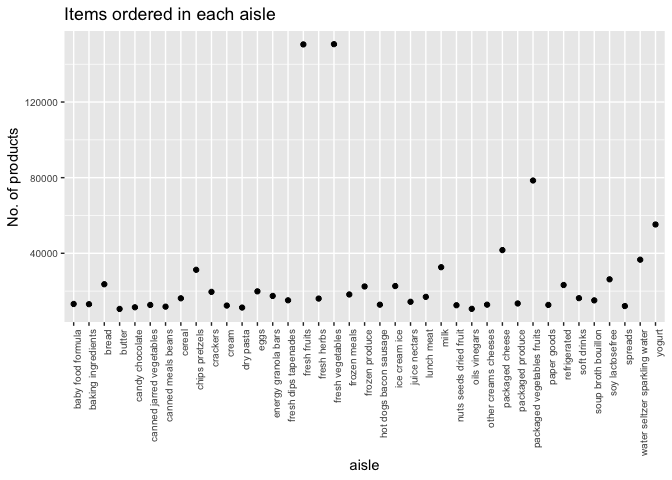
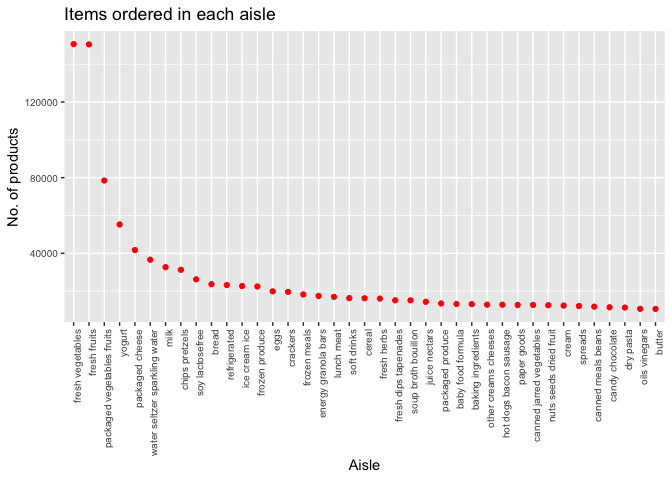
Changing color on graph

diff --git a/p8105_hw3_unp2000.md b/p8105_hw3_unp2000.md
@@ -52,13 +52,13 @@ aisles sensibly, and organize your plot so others can read it.
 plot_1= filter(instacart_new, n > 10000)
 ggplot(
   plot_1, 
-  aes(x = aisle, y = n)) + 
-  geom_point() +
+  aes(x = reorder(aisle, -n), y = n)) + 
+  geom_point(color = 'red') +
   theme(axis.text.x = element_text(angle = 90, hjust = 1),
         axis.text = element_text(size = 7.5)) +
   labs(
     title = "Items ordered in each aisle",
-    x = "aisle",
+    x = "Aisle",
     y = "No. of products"
   )
 ```
